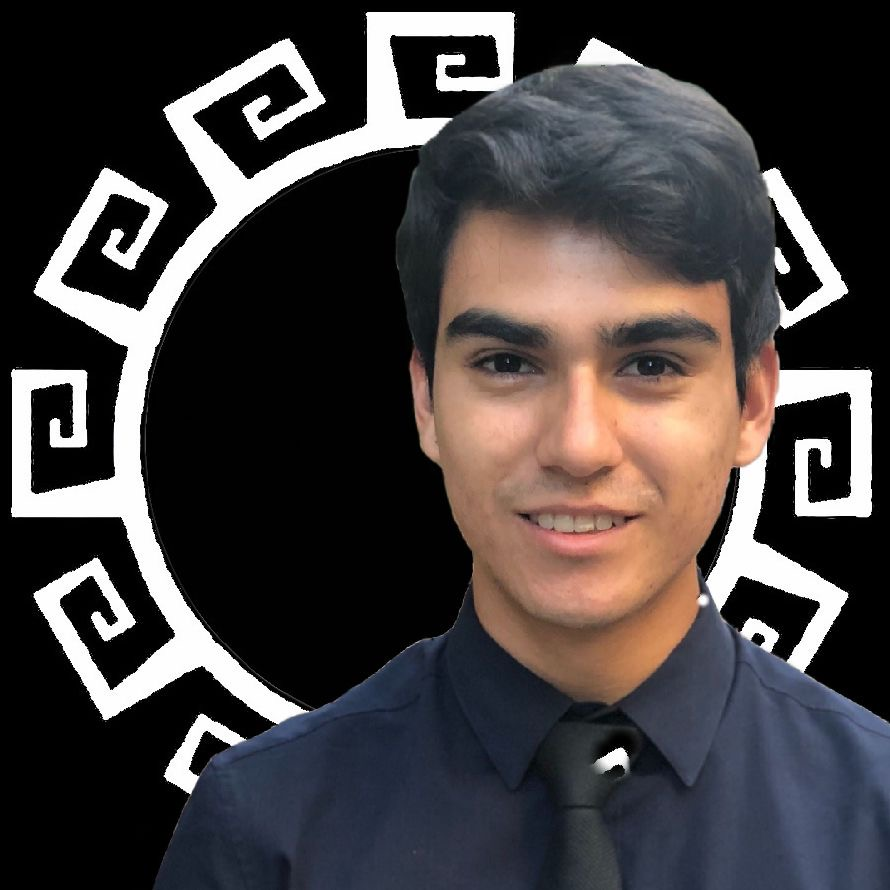
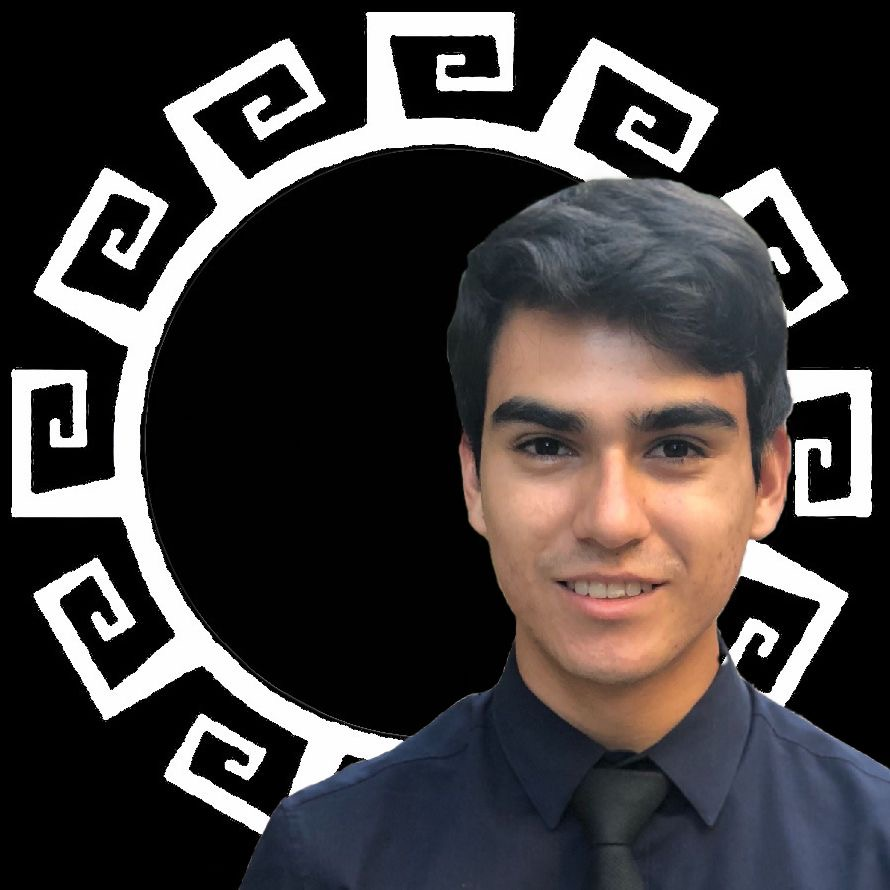
added robert's pic and memory / changed some pics

Changed region(s): [[0.1517, 0.0607, 1.0, 1.0]]

diff --git a/src/pages/EBoard/index.js b/src/pages/EBoard/index.js
@@ -5,15 +5,15 @@ import '../../eBoard.css';
 import rightsun from '../../coverImages/rightsun.png'
 import leftsun from '../../coverImages/leftsun.png';
 
-import Andy from '../../boardImages/andy2.JPG'
+import Andy from '../../boardImages/andy2.jpeg'
 import Trevor from '../../boardImages/trevor1.JPG'
 import Jasmine from '../../boardImages/dragonfruit.jpg'
 
 import Mayra from '../../boardImages/mayra1.JPG'
-import Robert from '../../boardImages/lemon.jpg'
+import Robert from '../../boardImages/robert.jpeg'
 import Michael from '../../boardImages/michael1.JPG'
 
-import Aidan from '../../boardImages/aiden1.JPG'
+import Aidan from '../../boardImages/aiden1.jpeg'
 import Mat from '../../boardImages/mat1.JPG'
 import Eric from '../../boardImages/eric1.JPG'
 
@@ -174,7 +174,9 @@ class EBoard extends Component {
                         <div class="flip-card-back">
                             <div className = "backSideText">Robert Valencia</div>
                             <div className = "majorFontLong">3rd Year Mechanical Engineering</div>
-                            <div className = "backSideTextSmall">My favorite SOLES memory is...</div>
+                            <div className = "backSideTextSmall">My favorite SOLES memory is the 2019 Leadership Jr. Retreat. It was such a fun and rewarding experience to spend a day with 
+                            students interested in STEM that have a similar background as I do. To be able to talk to them about my own experiences and hear theirs as well was amazing. 
+                            It was also great because the members of the group I was given that day were very funny!</div>
                             <div className = "emailFontShort">uclasoles@gmail.com</div>    
                         </div>
                     </div>
